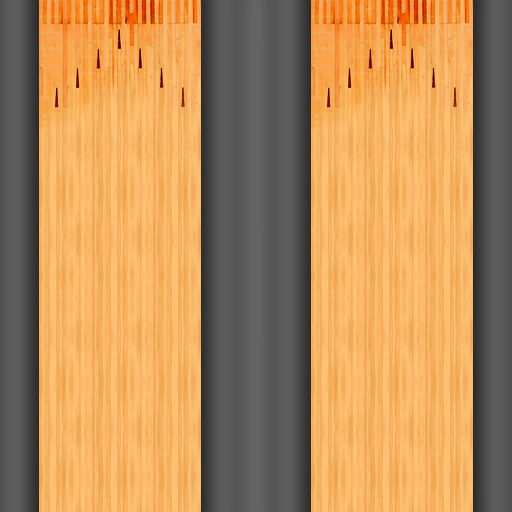
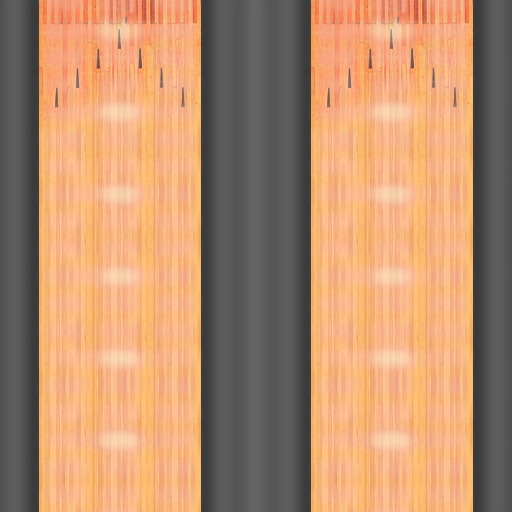
Add files via upload
reflections and new enclosure

diff --git a/index.html b/index.html
@@ -5,15 +5,15 @@ https://sdk.altvr.com/libs/altspace.js/2.9.0/altspace.min.js"></script></head>
 <body>
 <a-scene altspace="fullspace: true">
 <a-assets>
-<img id="brickWall" src="textures\brickWall.jpg">
-<img id="photo-4" src="textures\photo-4.jpg">
-<img id="photo-3" src="textures\photo-3.jpg">
-<img id="photo-2" src="textures\photo-2.jpg">
-<img id="photo-1" src="textures\photo-1.jpg">
 <img id="oldDoor" src="textures\oldDoor.jpg">
-<img id="murel" src="textures\murel.jpg">
+<img id="brickWall" src="textures\brickWall.jpg">
+<img id="photo-1" src="textures\photo-1.jpg">
 <img id="bowlingWoodFloor" src="textures\bowlingWoodFloor.png">
+<img id="photo-2" src="textures\photo-2.jpg">
+<img id="murel" src="textures\murel.jpg">
 <img id="ceiling" src="textures\ceiling.png">
+<img id="photo-3" src="textures\photo-3.jpg">
+<img id="photo-4" src="textures\photo-4.jpg">
 <img id="darkCarpet" src="textures\darkCarpet.jpg">
 <a-asset-item id="bowling-alley-left" src="models\/bowling-alley-left.gltf"></a-asset-item>
 <a-mixin id="bowling-alley-left-mixin" gltf-model="#bowling-alley-left"></a-mixin>
@@ -23,107 +23,13 @@ https://sdk.altvr.com/libs/altspace.js/2.9.0/altspace.min.js"></script></head>
 
 </a-assets>
 
+<a-entity position="8.55 1.08 -17.72" rotation="0 179.9999 0" scale="3.2643 3.2643 3.2643" n-layout-browser='isEnclosure:true; url:http://www.jumpstartsdk.com/live/AirHockey.html;'></a-entity>
 <a-entity position="-1.01 2.7 -13.72" rotation="0 90 0" scale="5.809085 5.809085 5.809085" n-layout-browser='isEnclosure:true; url:http://video-jukebox.firebaseapp.com;'></a-entity>
 
  
 
-<a-entity id="new-plane-entity " geometry="primitive: plane; width:12.80097; height:-5.333157;" position="9.197 2.63 5.1" rotation="-180 -180 0" material="shader: 
-standard; transparent: false; color: #000000; src: #brickWall; repeat: 1.5 2; offset: 0 0;  side: front; " shadow="receive: 
-false; cast: false;" >
-</a-entity>
-
-<a-entity id="new-plane-entity " geometry="primitive: plane; width:0.4675162; height:-0.45558;" position="12.337 0.681 -10.817" rotation="-197.9778 -180 0" material="shader: 
-standard; transparent: false; color: #000000;  side: double; " shadow="receive: 
-false; cast: false;" >
-</a-entity>
-
-<a-entity id="new-plane-entity " geometry="primitive: plane; width:0.4829603; height:-0.45558;" position="6.0437 0.686 -10.816" rotation="-197.9778 -180 0" material="shader: 
-standard; transparent: false; color: #000000;  side: double; " shadow="receive: 
-false; cast: false;" >
-</a-entity>
-
-<a-entity id="divider " geometry="primitive: box; width:0.023055; height:0.1829517; depth:16.87154;" position="7.16 5.27 -20" rotation="0 -270.0002 0" material="shader: 
-standard; transparent: false; color: #222222;  side: front; " shadow="receive: 
-false; cast: false;" >
-</a-entity>
-
-<a-entity id="divider " geometry="primitive: box; width:0.023055; height:0.1829517; depth:16.87154;" position="7.16 0.091 -20" rotation="0 -270.0002 0" material="shader: 
-standard; transparent: false; color: #222222;  side: front; " shadow="receive: 
-false; cast: false;" >
-</a-entity>
-
-<a-entity id="new-plane-entity " geometry="primitive: plane; width:16.85898; height:-5.39126;" n-mesh-collider=' isTrigger: false; type: environment;' position="7.153 2.695 -20.01" rotation="-180 8.025471E-05 0" material="shader: 
-standard; transparent: false; color: #FFFFFF; src: #brickWall; repeat: 5 2; offset: 0 0;  side: double; " shadow="receive: 
-false; cast: false;" >
-</a-entity>
-
-<a-entity id="new-plane-entity " geometry="primitive: plane; width:12.73877; height:-0.196;" position="9.1894 -0.108 -8.309999" rotation="-180 0 0" material="shader: 
-standard; transparent: false; color: #242424;  side: front; " shadow="receive: 
-false; cast: false;" >
-</a-entity>
-
-<a-entity id="new-cube-entity " geometry="primitive: box; width:0.07059422; height:2.047415; depth:2.802737;" position="15.574 3.194 -0.5741994" rotation="0 0 0" material="shader: 
-standard; transparent: false; color: #FFFFFF; src: #photo-4; repeat: 1 1; offset: 0 0;  side: front; " shadow="receive: 
-false; cast: false;" >
-</a-entity>
-
-<a-entity id="new-cube-entity " geometry="primitive: box; width:0.07059422; height:2.047415; depth:2.802737;" position="15.574 3.194 -4.281099" rotation="0 0 0" material="shader: 
-standard; transparent: false; color: #FFFFFF; src: #photo-3; repeat: 1 1; offset: 0 0;  side: front; " shadow="receive: 
-false; cast: false;" >
-</a-entity>
-
-<a-entity id="new-cube-entity " geometry="primitive: box; width:0.07059422; height:2.047415; depth:2.802737;" position="15.574 3.194 -8.02" rotation="0 0 0" material="shader: 
-standard; transparent: false; color: #FFFFFF; src: #photo-2; repeat: 1 1; offset: 0 0;  side: front; " shadow="receive: 
-false; cast: false;" >
-</a-entity>
-
-<a-entity id="new-cube-entity " geometry="primitive: box; width:0.07059422; height:2.047415; depth:2.802737;" position="15.574 3.194 -11.654" rotation="0 0 0" material="shader: 
-standard; transparent: false; color: #FFFFFF; src: #photo-1; repeat: 1 1; offset: 0 0;  side: front; " shadow="receive: 
-false; cast: false;" >
-</a-entity>
-
 <a-entity id="new-cube-entity " geometry="primitive: box; width:2.258744; height:3.27746; depth:0.147335;" position="0.07600021 1.629 5.071" rotation="0 0 0" material="shader: 
 standard; transparent: false; color: #FFFFFF; src: #oldDoor; repeat: 1 1; offset: 0 0;  side: front; " shadow="receive: 
-false; cast: false;" >
-</a-entity>
-
-<a-entity id="divider " geometry="primitive: box; width:0.023055; height:0.1829517; depth:4.025575;" position="0.7479 5.27 5.049001" rotation="0 -89.99999 0" material="shader: 
-standard; transparent: false; color: #222222;  side: front; " shadow="receive: 
-false; cast: false;" >
-</a-entity>
-
-<a-entity id="new-plane-entity " geometry="primitive: plane; width:4.093655; height:-5.333157;" position="0.7709999 2.63 5.069" rotation="-180 -180 0" material="shader: 
-standard; transparent: false; color: #FFFFFF; src: #brickWall; repeat: 1.5 2; offset: 0 0;  side: front; " shadow="receive: 
-false; cast: false;" >
-</a-entity>
-
-<a-entity id="divider " geometry="primitive: box; width:0.023055; height:0.1825323; depth:2.447606;" position="2.752 5.27 3.835" rotation="0 0 0" material="shader: 
-standard; transparent: false; color: #222222;  side: front; " shadow="receive: 
-false; cast: false;" >
-</a-entity>
-
-<a-entity id="divider " geometry="primitive: box; width:0.023055; height:0.1825323; depth:2.447606;" position="2.776 1.4192 3.8577" rotation="0 0 0" material="shader: 
-standard; transparent: false; color: #222222;  side: front; " shadow="receive: 
-false; cast: false;" >
-</a-entity>
-
-<a-entity id="divider " geometry="primitive: box; width:0.023055; height:0.1829517; depth:12.78626;" position="9.157 1.412 2.64" rotation="0 -89.99999 0" material="shader: 
-standard; transparent: false; color: #222222;  side: front; " shadow="receive: 
-false; cast: false;" >
-</a-entity>
-
-<a-entity id="divider " geometry="primitive: box; width:0.023055; height:0.1829517; depth:12.78626;" position="9.157 5.27 2.623" rotation="0 -89.99999 0" material="shader: 
-standard; transparent: false; color: #222222;  side: front; " shadow="receive: 
-false; cast: false;" >
-</a-entity>
-
-<a-entity id="new-plane-entity " geometry="primitive: plane; width:2.413715; height:-3.977;" n-mesh-collider=' isTrigger: false; type: environment;' position="2.7845 3.308 3.8469" rotation="-180 -90.00005 0" material="shader: 
-standard; transparent: false; color: #CFCFCF; src: #murel; repeat: 0.22 1; offset: 0 0;  side: front; " shadow="receive: 
-false; cast: false;" >
-</a-entity>
-
-<a-entity id="new-plane-entity " geometry="primitive: plane; width:12.77098; height:-3.977;" n-mesh-collider=' isTrigger: false; type: environment;' position="9.17 3.308 2.64" rotation="-180 -180 0" material="shader: 
-standard; transparent: false; color: #CFCFCF; src: #murel; repeat: 1 1; offset: 0 0;  side: front; " shadow="receive: 
 false; cast: false;" >
 </a-entity>
 
@@ -147,6 +53,11 @@ standard; transparent: false; color: #222222;  side: front; " shadow="receive:
 false; cast: false;" >
 </a-entity>
 
+<a-entity id="new-cube-entity " geometry="primitive: box; width:0.07059422; height:2.047415; depth:2.802737;" position="15.574 3.194 -11.654" rotation="0 0 0" material="shader: 
+standard; transparent: false; color: #FFFFFF; src: #photo-1; repeat: 1 1; offset: 0 0;  side: front; " shadow="receive: 
+false; cast: false;" >
+</a-entity>
+
 <a-entity id="new-plane-entity " geometry="primitive: plane; width:4.047273; height:13.39345; depth:1;" position="0.7700005 0 -1.6145" rotation="-90 0 0" material="shader: 
 standard; transparent: false; color: #B0B0B0; src: #bowlingWoodFloor; repeat: 1 3; offset: 0 0;  side: front; " shadow="receive: 
 false; cast: false;" >
@@ -154,6 +65,11 @@ false; cast: false;" >
 
 <a-entity id="new-cube-entity " geometry="primitive: box; width:1.09; height:0.2602375; depth:1.09;" position="1.940001 0.13 4.04" rotation="0 0 0" material="shader: 
 standard; transparent: false; color: #181818; src: #brickWall; repeat: 0.3 2; offset: 0 0;  side: front; " shadow="receive: 
+false; cast: false;" >
+</a-entity>
+
+<a-entity id="new-plane-entity " geometry="primitive: plane; width:16.85898; height:5.39126; depth:1;" n-mesh-collider=' isTrigger: false; type: environment;' position="7.153 2.695 -20.01" rotation="0 8.025471E-05 0" material="shader: 
+standard; transparent: false; color: #FFFFFF; src: #brickWall; repeat: 5 2; offset: 0 0;  side: double; " shadow="receive: 
 false; cast: false;" >
 </a-entity>
 
@@ -167,8 +83,23 @@ standard; transparent: false; color: #FFFFFF; src: #brickWall; repeat: 0.3 2; of
 false; cast: false;" >
 </a-entity>
 
+<a-entity id="new-plane-entity " geometry="primitive: plane; width:0.4675162; height:0.45558; depth:0.45558;" position="12.337 0.681 -10.817" rotation="-17.97783 -180 0" material="shader: 
+standard; transparent: false; color: #000000;  side: double; " shadow="receive: 
+false; cast: false;" >
+</a-entity>
+
 <a-entity id="new-plane-entity " geometry="primitive: plane; width:16.83166; height:11.6914; depth:1;" position="7.159 0 -14.158" rotation="-90 0 0" material="shader: 
 standard; transparent: false; color: #B0B0B0; src: #bowlingWoodFloor; repeat: 2 1.5; offset: 0 0;  side: double; " shadow="receive: 
+false; cast: false;" >
+</a-entity>
+
+<a-entity id="divider " geometry="primitive: box; width:0.023055; height:0.1829517; depth:16.87154;" position="7.16 5.27 -20" rotation="0 -270.0002 0" material="shader: 
+standard; transparent: false; color: #222222;  side: front; " shadow="receive: 
+false; cast: false;" >
+</a-entity>
+
+<a-entity id="new-cube-entity " geometry="primitive: box; width:0.07059422; height:2.047415; depth:2.802737;" position="15.574 3.194 -8.02" rotation="0 0 0" material="shader: 
+standard; transparent: false; color: #FFFFFF; src: #photo-2; repeat: 1 1; offset: 0 0;  side: front; " shadow="receive: 
 false; cast: false;" >
 </a-entity>
 
@@ -182,8 +113,23 @@ standard; transparent: false; color: #181818; src: #brickWall; repeat: 0.3 2; of
 false; cast: false;" >
 </a-entity>
 
+<a-entity id="divider " geometry="primitive: box; width:0.023055; height:0.1829517; depth:16.87154;" position="7.16 0.091 -20" rotation="0 -270.0002 0" material="shader: 
+standard; transparent: false; color: #222222;  side: front; " shadow="receive: 
+false; cast: false;" >
+</a-entity>
+
 <a-entity id="new-plane-entity " geometry="primitive: plane; width:25.14427; height:5.39126; depth:1;" n-mesh-collider=' isTrigger: false; type: environment;' position="-1.26 2.695 -7.500999" rotation="0 -270.0001 0" material="shader: 
 standard; transparent: false; color: #FFFFFF; src: #brickWall; repeat: 7 2; offset: 0 0;  side: double; " shadow="receive: 
+false; cast: false;" >
+</a-entity>
+
+<a-entity id="divider " geometry="primitive: box; width:0.023055; height:0.1829517; depth:4.025575;" position="0.7479 5.27 5.049001" rotation="0 -89.99999 0" material="shader: 
+standard; transparent: false; color: #222222;  side: front; " shadow="receive: 
+false; cast: false;" >
+</a-entity>
+
+<a-entity id="new-plane-entity " geometry="primitive: plane; width:12.80097; height:5.333157; depth:1;" position="9.197 2.63 5.1" rotation="0 -180 0" material="shader: 
+standard; transparent: false; color: #000000; src: #brickWall; repeat: 1.5 2; offset: 0 0;  side: front; " shadow="receive: 
 false; cast: false;" >
 </a-entity>
 
@@ -193,6 +139,11 @@ false; cast: false;" >
 </a-entity>
 
 <a-entity id="divider " geometry="primitive: box; width:0.023055; height:0.1829517; depth:25.14903;" position="15.57 5.27 -7.502999" rotation="0 0 0" material="shader: 
+standard; transparent: false; color: #222222;  side: front; " shadow="receive: 
+false; cast: false;" >
+</a-entity>
+
+<a-entity id="divider " geometry="primitive: box; width:0.023055; height:0.1825323; depth:2.447606;" position="2.752 5.27 3.835" rotation="0 0 0" material="shader: 
 standard; transparent: false; color: #222222;  side: front; " shadow="receive: 
 false; cast: false;" >
 </a-entity>
@@ -207,8 +158,43 @@ standard; transparent: false; color: #FFFFFF; src: #brickWall; repeat: 0.3 2; of
 false; cast: false;" >
 </a-entity>
 
+<a-entity id="new-plane-entity " geometry="primitive: plane; width:12.77098; height:3.977; depth:1;" n-mesh-collider=' isTrigger: false; type: environment;' position="9.17 3.308 2.64" rotation="0 -180 0" material="shader: 
+standard; transparent: false; color: #CFCFCF; src: #murel; repeat: 1 1; offset: 0 0;  side: front; " shadow="receive: 
+false; cast: false;" >
+</a-entity>
+
+<a-entity id="divider " geometry="primitive: box; width:0.023055; height:0.1825323; depth:2.447606;" position="2.776 1.4192 3.8577" rotation="0 0 0" material="shader: 
+standard; transparent: false; color: #222222;  side: front; " shadow="receive: 
+false; cast: false;" >
+</a-entity>
+
+<a-entity id="new-plane-entity " geometry="primitive: plane; width:0.4829603; height:0.45558; depth:0.45558;" position="6.0437 0.686 -10.816" rotation="-17.97783 -180 0" material="shader: 
+standard; transparent: false; color: #000000;  side: double; " shadow="receive: 
+false; cast: false;" >
+</a-entity>
+
 <a-entity id="new-plane-entity " geometry="primitive: plane; width:16.83166; height:25.17032; depth:1;" position="7.159 5.32 -7.492" rotation="-270 -180 0" material="shader: 
 standard; transparent: false; color: #FFFFFF; src: #ceiling; repeat: 7 7; offset: 0 0;  side: double; " shadow="receive: 
+false; cast: false;" >
+</a-entity>
+
+<a-entity id="new-cube-entity " geometry="primitive: box; width:0.07059422; height:2.047415; depth:2.802737;" position="15.574 3.194 -4.281099" rotation="0 0 0" material="shader: 
+standard; transparent: false; color: #FFFFFF; src: #photo-3; repeat: 1 1; offset: 0 0;  side: front; " shadow="receive: 
+false; cast: false;" >
+</a-entity>
+
+<a-entity id="new-plane-entity " geometry="primitive: plane; width:2.413715; height:3.977; depth:1;" n-mesh-collider=' isTrigger: false; type: environment;' position="2.7845 3.308 3.8469" rotation="0 -90.00005 0" material="shader: 
+standard; transparent: false; color: #CFCFCF; src: #murel; repeat: 0.22 1; offset: 0 0;  side: front; " shadow="receive: 
+false; cast: false;" >
+</a-entity>
+
+<a-entity id="new-plane-entity " geometry="primitive: plane; width:4.093655; height:5.333157; depth:1;" position="0.7709999 2.63 5.069" rotation="0 -180 0" material="shader: 
+standard; transparent: false; color: #FFFFFF; src: #brickWall; repeat: 1.5 2; offset: 0 0;  side: front; " shadow="receive: 
+false; cast: false;" >
+</a-entity>
+
+<a-entity id="new-cube-entity " geometry="primitive: box; width:0.07059422; height:2.047415; depth:2.802737;" position="15.574 3.194 -0.5741994" rotation="0 0 0" material="shader: 
+standard; transparent: false; color: #FFFFFF; src: #photo-4; repeat: 1 1; offset: 0 0;  side: front; " shadow="receive: 
 false; cast: false;" >
 </a-entity>
 
@@ -227,8 +213,23 @@ standard; transparent: false; color: #6C6C6C; src: #darkCarpet; repeat: 2 15; of
 false; cast: false;" >
 </a-entity>
 
+<a-entity id="divider " geometry="primitive: box; width:0.023055; height:0.1829517; depth:12.78626;" position="9.157 5.27 2.623" rotation="0 -89.99999 0" material="shader: 
+standard; transparent: false; color: #222222;  side: front; " shadow="receive: 
+false; cast: false;" >
+</a-entity>
+
 <a-entity id="divider " geometry="primitive: box; width:0.023055; height:0.1829517; depth:25.14903;" position="-1.255 5.27 -7.502999" rotation="0 0 0" material="shader: 
 standard; transparent: false; color: #222222;  side: front; " shadow="receive: 
+false; cast: false;" >
+</a-entity>
+
+<a-entity id="divider " geometry="primitive: box; width:0.023055; height:0.1829517; depth:12.78626;" position="9.157 1.412 2.64" rotation="0 -89.99999 0" material="shader: 
+standard; transparent: false; color: #222222;  side: front; " shadow="receive: 
+false; cast: false;" >
+</a-entity>
+
+<a-entity id="new-plane-entity " geometry="primitive: plane; width:12.73877; height:0.196; depth:1;" position="9.1894 -0.108 -8.309999" rotation="0 0 0" material="shader: 
+standard; transparent: false; color: #242424;  side: front; " shadow="receive: 
 false; cast: false;" >
 </a-entity>
 
@@ -237,7 +238,7 @@ standard; transparent: false; color: #222222;  side: front; " shadow="receive:
 false; cast: false;" >
 </a-entity>
 
-<a-entity n-gltf='url:models\/bowling-ball-2.gltf'></a-entity><a-entity n-gltf='url:models\/bowling-ball-3.gltf'></a-entity><a-entity n-gltf='url:models\/bowling-ball-1.gltf'></a-entity><a-entity n-gltf='url:models\/bowling-ball-4.gltf'></a-entity><a-entity n-gltf='url:models\/Rack-1.gltf'></a-entity><a-entity n-gltf='url:models\/Rack-2.gltf'></a-entity><a-entity mixin="bowling-alley-left-mixin" ></a-entity><a-entity mixin="bowling-alley-right-mixin" ></a-entity>
+<a-entity n-gltf='url:models\/Rack-1.gltf'></a-entity><a-entity n-gltf='url:models\/bowling-ball-4.gltf'></a-entity><a-entity n-gltf='url:models\/Rack-2.gltf'></a-entity><a-entity n-gltf='url:models\/bowling-ball-1.gltf'></a-entity><a-entity mixin="bowling-alley-left-mixin" ></a-entity><a-entity n-gltf='url:models\/bowling-ball-2.gltf'></a-entity><a-entity n-gltf='url:models\/bowling-ball-3.gltf'></a-entity><a-entity mixin="bowling-alley-right-mixin" ></a-entity>
 
 
 </a-scene>
